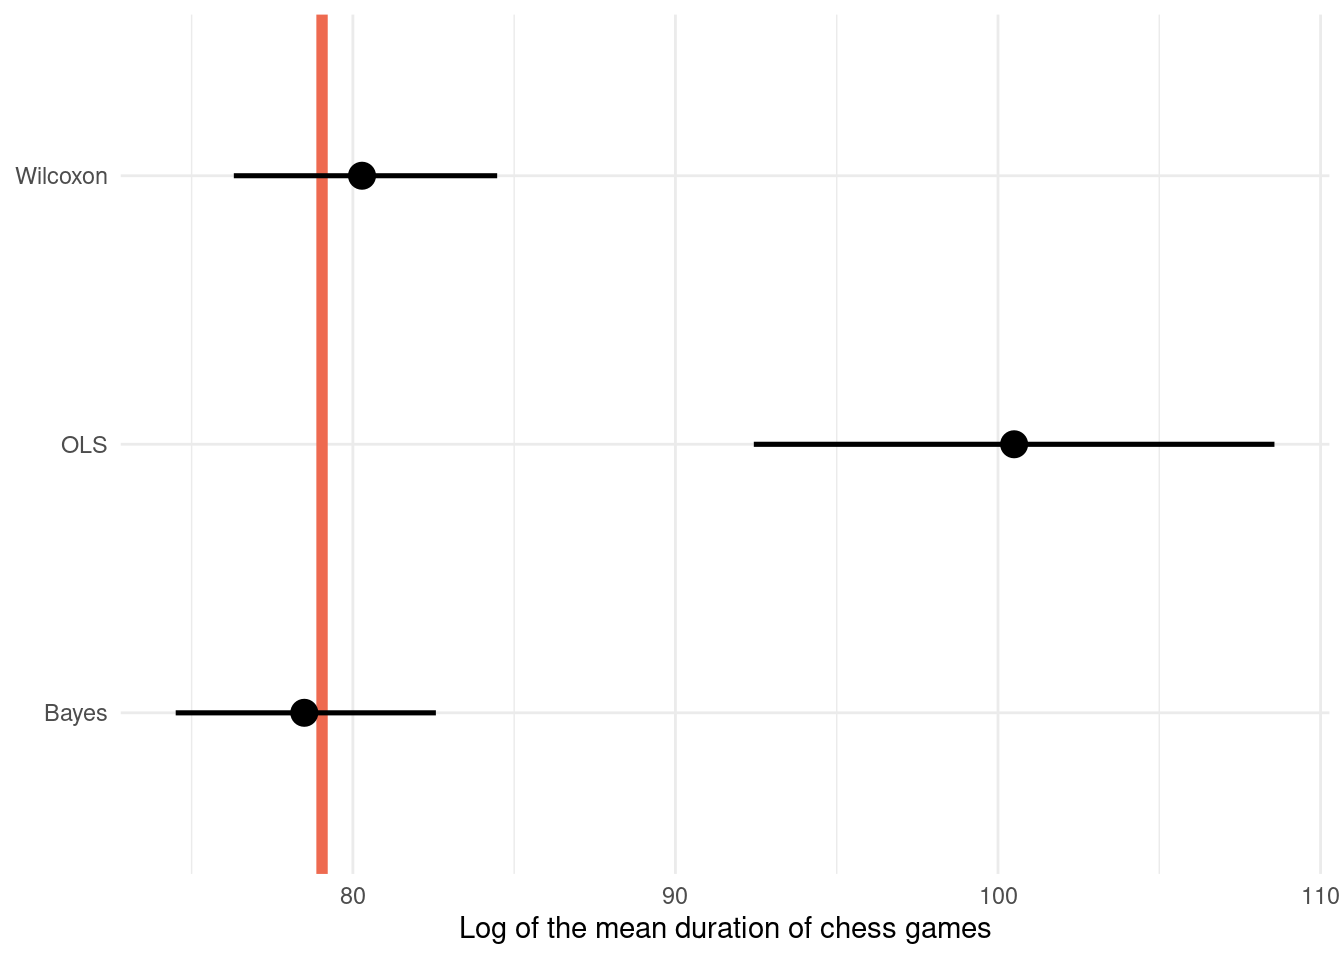
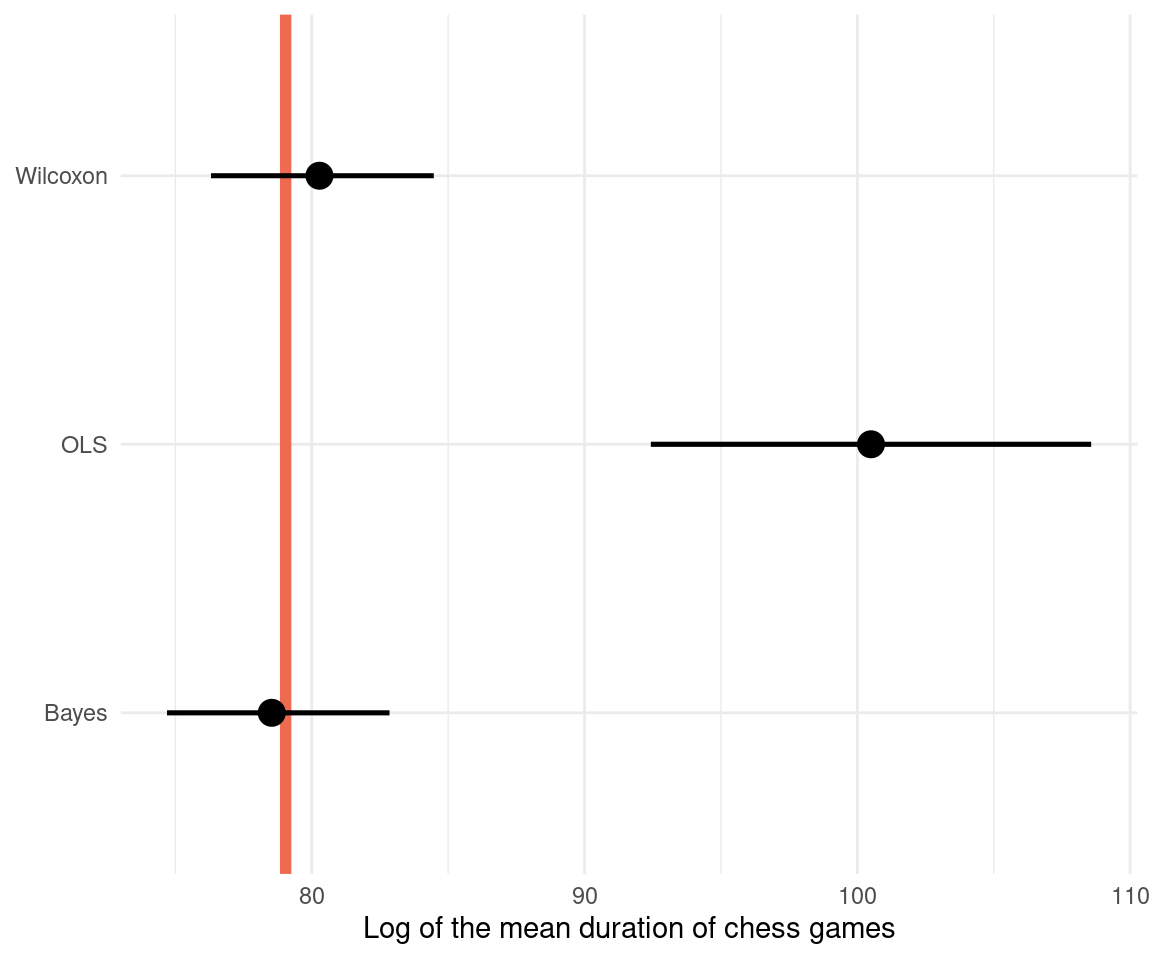
set yaml for wilcox test

diff --git a/content/post/wilcoxon_signed_rank.html b/content/post/wilcoxon_signed_rank.html
@@ -1,14 +1,36 @@
 ---
-title: "Untitled"
+title: "Wilcoxon signed-rank test"
 author: "Gregor Mathes"
-date: "1 4 2021"
-output: 
-  html_document:
-    mathjax: "default"
+date: "2021-04-01"
+slug: Regression tests
+categories: []
+tags: [Regression in disguise, Regression, t-test, Bayes, Statistics]
+subtitle: ''
+summary: 'Modeling the central tendency within one sample without the normality assumption'
+authors: [Gregor Mathes]
+lastmod: "01 April, 2021"
+featured: no
+projects: [Regression tests]
+output:
+  blogdown::html_page:
+    toc: true
+    toc_depth: 1
+    number_sections: false
+    fig_width: 6
 ---
 
 <script src="/rmarkdown-libs/header-attrs/header-attrs.js"></script>
 
+<div id="TOC">
+<ul>
+<li><a href="#introduction">Introduction</a></li>
+<li><a href="#wilcoxon-signed-rank-test">Wilcoxon signed-rank test</a></li>
+<li><a href="#comparing-the-test-to-the-regression">Comparing the test to the regression</a></li>
+<li><a href="#bayesian-estimation">Bayesian estimation</a></li>
+<li><a href="#comparison">Comparison</a></li>
+<li><a href="#conclusion">Conclusion</a></li>
+</ul>
+</div>
 
 <div id="introduction" class="section level1">
 <h1>Introduction</h1>
@@ -56,7 +78,7 @@ simulated_data %&gt;%
                alpha = 0.9) +
   facet_wrap(~distribution, scale = &quot;free&quot;) +
   theme_minimal()</code></pre>
-<p><img src="/post/wilcoxon_signed_rank_files/figure-html/simulation%20raw-1.png" width="672" /></p>
+<p><img src="/post/wilcoxon_signed_rank_files/figure-html/simulation%20raw-1.png" width="576" /></p>
 <p>So that’s the un-transformed simulated data. Now let’s try to transform them.</p>
 <pre class="r"><code># define the transformation function
 signed_rank &lt;-  function(x) {
@@ -72,7 +94,7 @@ simulated_data %&gt;%
                alpha = 0.9) +
   facet_wrap(~distribution, scale = &quot;free&quot;) +
   theme_minimal()</code></pre>
-<p><img src="/post/wilcoxon_signed_rank_files/figure-html/simulation%20transformed-1.png" width="672" /></p>
+<p><img src="/post/wilcoxon_signed_rank_files/figure-html/simulation%20transformed-1.png" width="576" /></p>
 <p>We can see that the transformation does not work properly on all distributions (especially for the binomial and the poisson data). This is because the rank-transformation works only for continuous data, and not for discrete. And on the other distributions, it seems like a mixture of a normal and a uniform distribution. The test is applied as a black box and you don’t see these transformations, and that those transformations might fail. We will see how to overcome these problems with Bayesian estimation later on in this blog. But not only Bayesian estimation is capable to tackle these issues. There are frequentist ways for regression on discrete data as well. But all of this requires thinking, cross-checking, and plotting each step in the analysis. You won’t tackle these issues with a classical test like. Even worse, if you throw the data in such a black box, it won’t even tell you that something is wrong, or that it’s assumptions are violated.</p>
 </div>
 <div id="assumptions" class="section level2">
@@ -107,7 +129,7 @@ dat_chess %&gt;%
                alpha = 0.9) +
   labs(x = &quot;Length of chess game&quot;) +
   theme_minimal()</code></pre>
-<p><img src="/post/wilcoxon_signed_rank_files/figure-html/sim%20data-1.png" width="672" /></p>
+<p><img src="/post/wilcoxon_signed_rank_files/figure-html/sim%20data-1.png" width="576" /></p>
 <p>With this much data, all our p-value would be totally small (see the problem?). So I will sample 200 values from this total distribution.</p>
 <pre class="r"><code>set.seed(1708)
 dat_chess &lt;- sample(dat_chess, 200)</code></pre>
@@ -227,7 +249,7 @@ result_posterior %&gt;%
   geom_density(colour = &quot;grey20&quot;, fill = &quot;coral2&quot;, alpha = 0.8) +
   labs(x = &quot;Mean height&quot;, y = NULL) + 
   theme_minimal() </code></pre>
-<p><img src="/post/wilcoxon_signed_rank_files/figure-html/posterior%20brms-1.png" width="672" /></p>
+<p><img src="/post/wilcoxon_signed_rank_files/figure-html/posterior%20brms-1.png" width="576" /></p>
 <p>And we can proceed to test our hypothesis:</p>
 <pre class="r"><code>hyp_test &lt;- result_posterior %&gt;% 
   mutate(b_Intercept= exp(b_Intercept)) %&gt;% 
@@ -236,15 +258,15 @@ result_posterior %&gt;%
 hyp_test </code></pre>
 <pre><code>## Hypothesis Tests for class :
 ##               Hypothesis Estimate Est.Error CI.Lower CI.Upper Evid.Ratio
-## 1 (b_Intercept)-(75) &gt; 0     3.52      2.08      0.1     6.92      21.06
+## 1 (b_Intercept)-(75) &gt; 0     3.56      2.09     0.23     7.06      25.09
 ##   Post.Prob Star
-## 1      0.95    *
+## 1      0.96    *
 ## ---
 ## &#39;CI&#39;: 90%-CI for one-sided and 95%-CI for two-sided hypotheses.
 ## &#39;*&#39;: For one-sided hypotheses, the posterior probability exceeds 95%;
 ## for two-sided hypotheses, the value tested against lies outside the 95%-CI.
 ## Posterior probabilities of point hypotheses assume equal prior probabilities.</code></pre>
-<p>It’s 21.1 times more likely that the average chess game from the sample takes more than 75 minutes, than that the average is less than 75 minutes.</p>
+<p>It’s 25.1 times more likely that the average chess game from the sample takes more than 75 minutes, than that the average is less than 75 minutes.</p>
 </div>
 </div>
 <div id="comparison" class="section level1">
@@ -308,12 +330,12 @@ dat_comparison %&gt;%
 </tr>
 <tr class="odd">
 <td align="left">Bayes</td>
-<td align="right">4.363</td>
-<td align="right">4.311</td>
-<td align="right">4.414</td>
+<td align="right">4.364</td>
+<td align="right">4.313</td>
+<td align="right">4.417</td>
 <td align="right">0.378</td>
-<td align="right">0.343</td>
-<td align="right">0.417</td>
+<td align="right">0.345</td>
+<td align="right">0.418</td>
 </tr>
 </tbody>
 </table>
@@ -328,7 +350,7 @@ dat_comparison %&gt;%
   labs(x = &quot;Log of the mean duration of chess games&quot;, 
        y = NULL) +
   theme_minimal()</code></pre>
-<p><img src="/post/wilcoxon_signed_rank_files/figure-html/unnamed-chunk-1-1.png" width="672" /></p>
+<p><img src="/post/wilcoxon_signed_rank_files/figure-html/unnamed-chunk-1-1.png" width="576" /></p>
 <p>We can transform that to the normal scale by taking the exponential:</p>
 <pre class="r"><code>dat_comparison %&gt;% 
   mutate(across(mean:mean_upper, exp)) %&gt;% 
@@ -341,7 +363,7 @@ dat_comparison %&gt;%
   labs(x = &quot;Log of the mean duration of chess games&quot;, 
        y = NULL) +
   theme_minimal()</code></pre>
-<p><img src="/post/wilcoxon_signed_rank_files/figure-html/standard%20deviantion-1.png" width="672" /></p>
+<p><img src="/post/wilcoxon_signed_rank_files/figure-html/standard%20deviantion-1.png" width="576" /></p>
 <p>The Bayesian regression performs best, however the Wilcoxon test still is close to the true value. This shows that when all assumptions are met, the Wilcoxon test can still be a powerfull tool. Just don’t use it without knowing what’s going on. We can see that an ordinary least squares regression (OLS) is quite far off, because it models the mean and not the median. It is therefore less robust. And I would assume that the Wilcoxon test in R performs some extra steps and corrections that leads to the better estimate for our data.</p>
 </div>
 <div id="conclusion" class="section level1">
